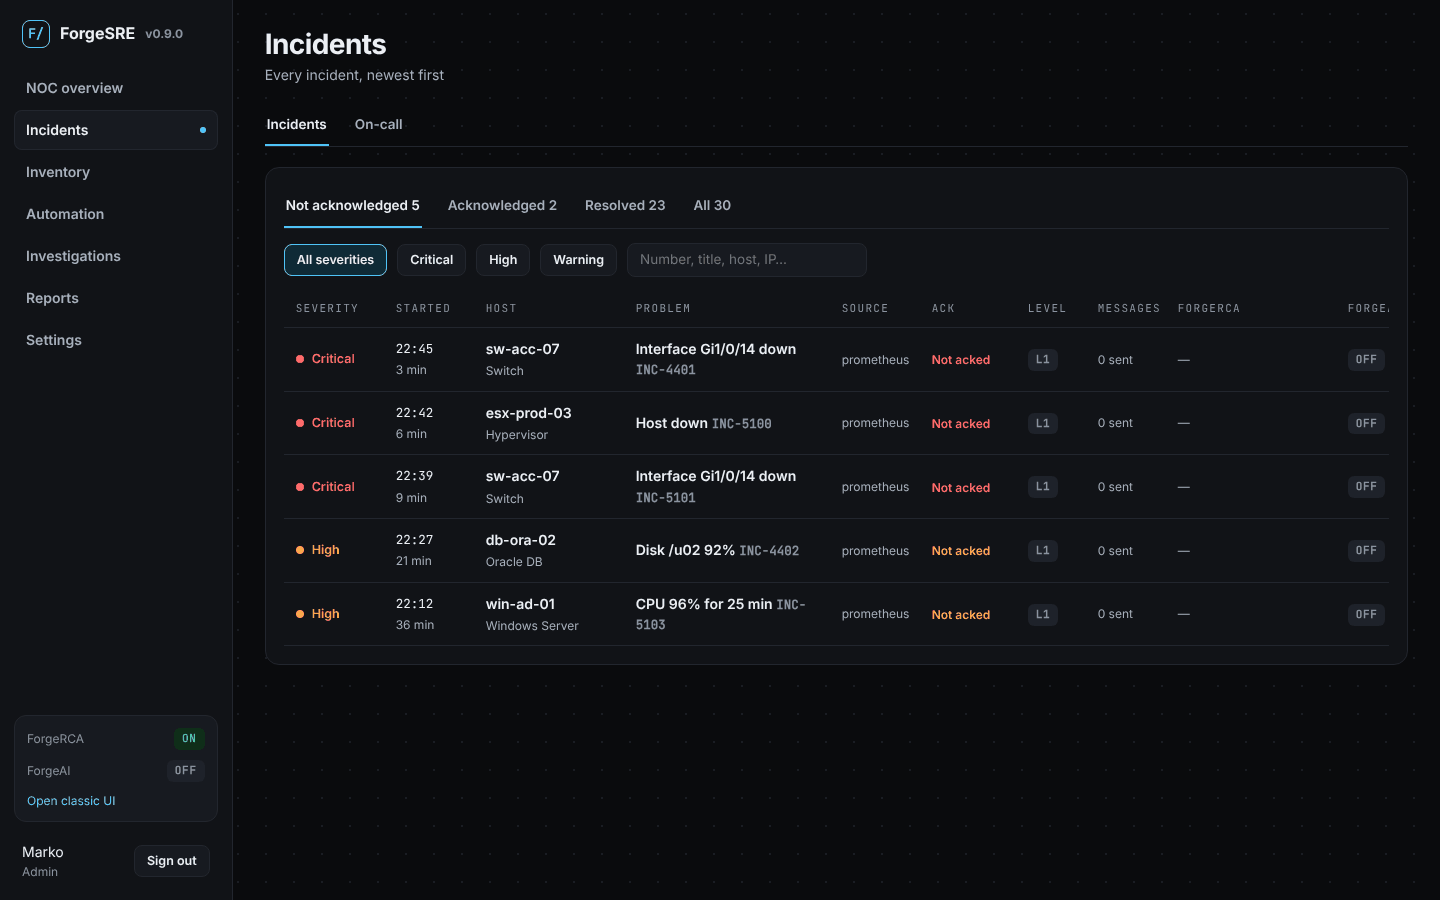
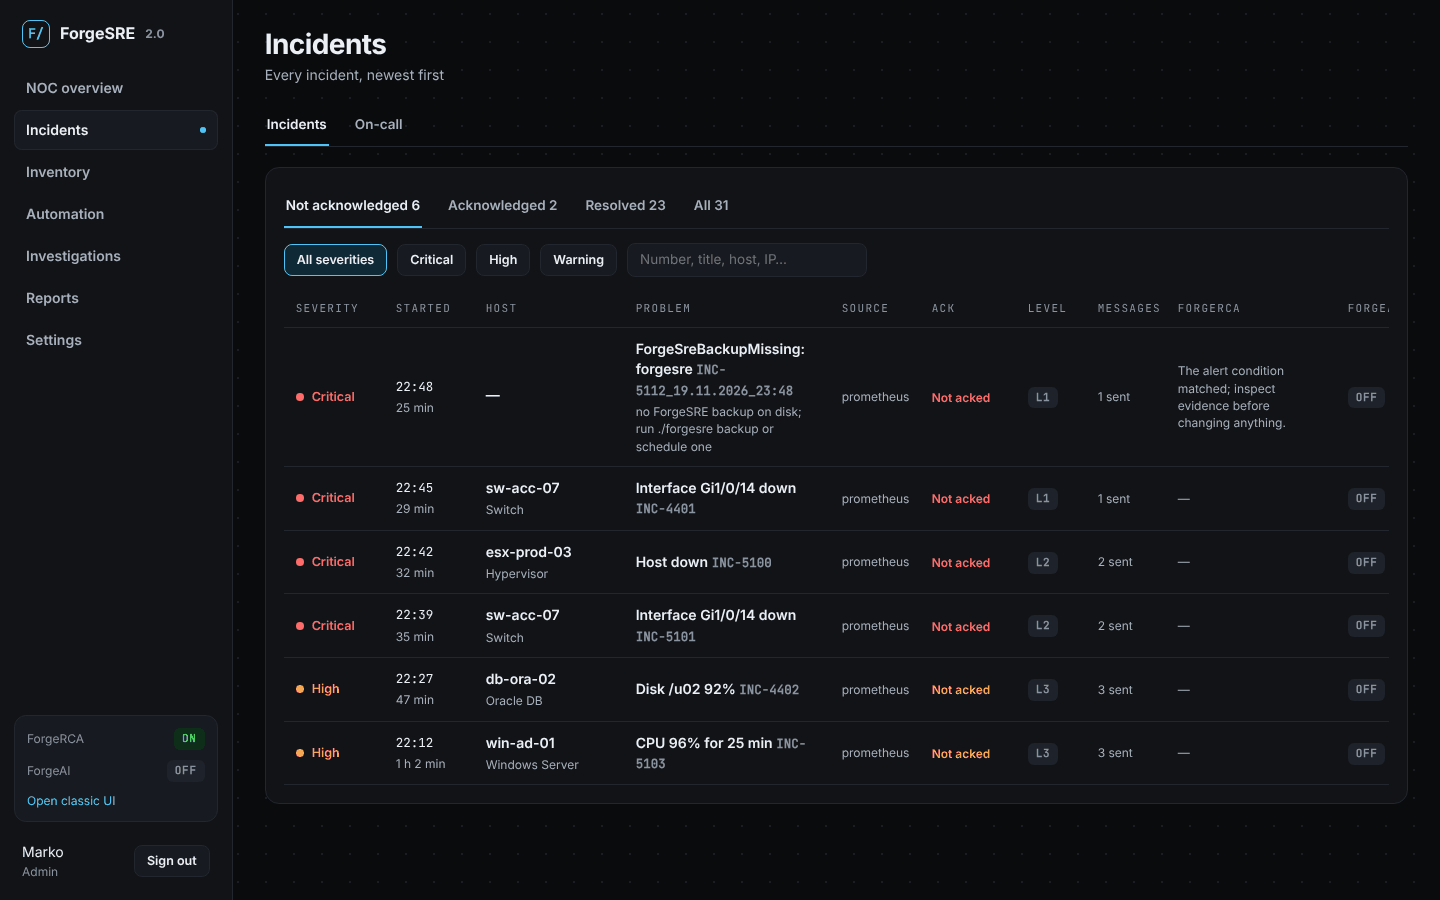
release: ForgeSRE 2.0 everywhere
One version on every surface: 2.0.0 in .env (install, update via
render-monitoring), FastAPI, ./forgesre version, the classic header (was v1.0)
and the new UI menu (shows 2.0). README, docs index, architecture and handbook
say V2.0; docs/v2.0.md lists what is new since V0.9. Screenshots refreshed.

Claude-Session: https://claude.ai/code/session_01K9hus2JZBeXGjiRoAgeJJH

diff --git a/frontend/templates/base.html b/frontend/templates/base.html
@@ -52,7 +52,7 @@
       <symbol id="nav-admin" viewBox="0 0 16 16"><circle cx="8" cy="8" r="2.1" fill="none" stroke="currentColor" stroke-width="1.5"/><path fill="none" stroke="currentColor" stroke-width="1.5" stroke-linejoin="round" d="M8 2.2v1.4M8 12.4v1.4M2.2 8h1.4M12.4 8h1.4M3.9 3.9l1 1M11.1 11.1l1 1M12.1 3.9l-1 1M4.9 11.1l-1 1"/></symbol>
       <symbol id="nav-logout" viewBox="0 0 16 16"><path fill="none" stroke="currentColor" stroke-width="1.5" stroke-linecap="round" stroke-linejoin="round" d="M7 2.5H3.5v11H7M7 8h6M10.5 5.5 13 8l-2.5 2.5"/></symbol>
     </svg>
-    <div class="brand"><span class="nav-ico" aria-hidden="true"><svg class="nav-svg"><use href="#nav-dash"></use></svg></span>ForgeSRE <span>v1.0</span></div>
+    <div class="brand"><span class="nav-ico" aria-hidden="true"><svg class="nav-svg"><use href="#nav-dash"></use></svg></span>ForgeSRE <span>v2.0</span></div>
     <a href="/classic" class="{% if request.url.path in ('/', '/classic') %}active{% endif %}" title="Dashboard"><span class="nav-ico" aria-hidden="true"><svg class="nav-svg"><use href="#nav-dash"></use></svg></span><span class="nav-label">Dashboard</span></a>
     {% if can('read_ai') %}
     <a href="/investigations" class="{% if request.url.path.startswith('/investigations') or request.url.path.startswith('/forgeai') %}active{% endif %}" title="Investigations"><span class="nav-ico" aria-hidden="true"><svg class="nav-svg"><use href="#nav-invest"></use></svg></span><span class="nav-label">Investigations</span></a>

diff --git a/web/src/components/Shell.tsx b/web/src/components/Shell.tsx
@@ -14,6 +14,11 @@ export const NAV = [
   { to: "/settings", label: "Settings" },
 ];
 
+/** "2.0.0" → "2.0": the menu shows major.minor, like the release notes. */
+export function shortVersion(v: string): string {
+  return v.split(".").slice(0, 2).join(".");
+}
+
 const ROLE_LABEL: Record<string, string> = { viewer: "Viewer", analyst: "Analyst", engineer: "Engineer", admin: "Admin" };
 
 export function Shell({ me, forgeai, children }: { me: Me | null; forgeai: string; children: ReactNode }) {
@@ -22,7 +27,7 @@ export function Shell({ me, forgeai, children }: { me: Me | null; forgeai: strin
       <nav className="nav" aria-label="Main">
         <div className="nav-brand">
           <span className="nav-logo" aria-hidden="true">F/</span>
-          ForgeSRE {me?.version ? <span className="small faint">v{me.version}</span> : null}
+          ForgeSRE {me?.version ? <span className="small faint">{shortVersion(me.version)}</span> : null}
         </div>
         <div className="nav-links">
           {NAV.map((item) => (

diff --git a/web/src/components/Shell.test.tsx b/web/src/components/Shell.test.tsx
@@ -9,15 +9,15 @@ describe("Shell", () => {
   it("shows the appliance version from /me, and nothing when it is unknown", () => {
     const { rerender } = render(
       <MemoryRouter>
-        <Shell me={{ email: "a@x", role: "admin", name: "Ana", version: "0.9.0" }} forgeai="off">x</Shell>
+        <Shell me={{ email: "a@x", role: "admin", name: "Ana", version: "2.0.0" }} forgeai="off">x</Shell>
       </MemoryRouter>,
     );
-    expect(screen.getByText("v0.9.0")).toBeTruthy();
+    expect(screen.getByText("2.0")).toBeTruthy();
     rerender(
       <MemoryRouter>
         <Shell me={{ email: "a@x", role: "admin", name: "Ana" }} forgeai="off">x</Shell>
       </MemoryRouter>,
     );
-    expect(screen.queryByText(/^v\d/)).toBeNull();
+    expect(screen.queryByText(/^\d+\.\d+$/)).toBeNull();
   });
 });

diff --git a/tests/test_v08.py b/tests/test_v08.py
@@ -110,37 +110,39 @@ def _alert(alertname: str, asset_id: str) -> dict:
 # --- version ---------------------------------------------------------------
 
 
-def test_version_is_0_9_on_product_surfaces():
+def test_version_is_2_0_on_product_surfaces():
     from app.main import app as fastapi_app
 
-    assert fastapi_app.version == "0.9.0"
+    assert fastapi_app.version == "2.0.0"
     base = (TEMPLATES / "base.html").read_text(encoding="utf-8")
-    assert "<span>v1.0</span>" in base
+    assert "<span>v2.0</span>" in base
     assert "v0.8" not in base
     assert "app.css?v=v09-70" in base
     assert "app.js?v=v09-T" in base
     for rel in ("scripts/install.sh", "scripts/render-monitoring.sh", "scripts/forgesre"):
         text = (ROOT / rel).read_text(encoding="utf-8")
-        assert "0.9.0" in text
-        assert "0.8.0" not in text
+        assert "2.0.0" in text
+        assert "0.9.0" not in text
     readme = (ROOT / "README.md").read_text(encoding="utf-8")
-    assert "Current product: V0.9" in readme
+    assert "Current product: V2.0" in readme
     assert (ROOT / "docs" / "v0.8.md").exists()
     assert (ROOT / "docs" / "v0.9.md").exists()
+    assert (ROOT / "docs" / "v2.0.md").exists()
     index = (ROOT / "docs" / "README.md").read_text(encoding="utf-8")
     assert "[V0.8](v0.8.md)" in index
     assert "[V0.9](v0.9.md)" in index
+    assert "[V2.0](v2.0.md)" in index
     env = (ROOT / ".env.example").read_text(encoding="utf-8")
-    assert "FORGESRE_VERSION=0.9.0" in env
+    assert "FORGESRE_VERSION=2.0.0" in env
     help_text = subprocess.check_output(["bash", str(ROOT / "scripts/forgesre"), "help", "version"], text=True)
-    assert "0.9.0" in help_text
+    assert "2.0.0" in help_text
 
 
-def test_dashboard_footer_shows_v09():
+def test_dashboard_footer_shows_v20():
     _db().close()
     home = _client().get("/")
     assert home.status_code == 200
-    assert "ForgeSRE <span>v1.0</span>" in home.text
+    assert "ForgeSRE <span>v2.0</span>" in home.text
 
 
 # --- appliance NET ------------------------------------------------------------

diff --git a/tests/test_continuation.py b/tests/test_continuation.py
@@ -15,16 +15,16 @@ def test_continuation_handoff_exists_and_points_at_test_and_llm():
     assert "docs/llm.md" in text
     assert "514" in text
     assert "syslog" in text.lower()
-    assert "V0.9" in text
+    assert "V2.0" in text
     assert "not shipped" in text.lower()
     assert "one worker thread" in text.lower()
     contributing = (ROOT / "CONTRIBUTING.md").read_text(encoding="utf-8")
-    assert "V0.9" in contributing
+    assert "V2.0" in contributing
     handbook = (ROOT / "docs" / "operator-handbook.md").read_text(encoding="utf-8")
     assert "memory 90%" in handbook
     assert "Prometheus → Alertmanager → Core" in handbook
     arch = (ROOT / "docs" / "architecture.md").read_text(encoding="utf-8")
-    assert "V0.9" in arch
+    assert "V2.0" in arch
     assert "host network" in arch.lower()
     assert "Alertmanager" in arch
     assert "jobs" in arch.lower()

diff --git a/tests/test_snmp.py b/tests/test_snmp.py
@@ -175,7 +175,7 @@ def test_cli_help_documents_snmp_and_assets():
     backup = subprocess.check_output(["bash", str(root / "scripts/forgesre"), "help", "backup"], text=True)
     assert "--no-secrets" in backup
     version = subprocess.check_output(["bash", str(root / "scripts/forgesre"), "help", "version"], text=True)
-    assert "0.9" in version
+    assert "2.0" in version
     assert "Interactive prompt" in overview
     assert "./f" in overview
     shell = subprocess.check_output(["bash", str(root / "scripts/forgesre"), "help", "shell"], text=True)

diff --git a/tests/test_new_ui.py b/tests/test_new_ui.py
@@ -526,7 +526,7 @@ def test_new_ui_is_home_when_built(monkeypatch, tmp_path):
 
 
 def test_me_reports_appliance_version_for_the_menu(monkeypatch):
-    monkeypatch.setenv("FORGESRE_VERSION", "0.9.0")
+    monkeypatch.setenv("FORGESRE_VERSION", "2.0.0")
     client = TestClient(create_app())
     client.post("/login", data={"email": "admin@forgesre.local", "password": "testpass"})
-    assert client.get("/api/v1/me").json()["version"] == "0.9.0"
+    assert client.get("/api/v1/me").json()["version"] == "2.0.0"

diff --git a/tests/test_n_ordered.py b/tests/test_n_ordered.py
@@ -127,7 +127,7 @@ def test_readme_does_not_claim_dashboard_doctor_or_incidents_200():
 
 def test_architecture_doc_describes_the_running_appliance():
     text = (ROOT / "docs" / "architecture.md").read_text(encoding="utf-8")
-    assert "V0.9" in text
+    assert "V2.0" in text
     assert "host network" in text.lower()
     assert "Alertmanager" in text
     handbook = (ROOT / "docs" / "operator-handbook.md").read_text(encoding="utf-8")

diff --git a/backend/app/main.py b/backend/app/main.py
@@ -275,7 +275,7 @@ def create_app() -> FastAPI:
         stop.set()
         leader.release()
 
-    app = FastAPI(title="ForgeSRE", version="0.9.0", lifespan=lifespan)
+    app = FastAPI(title="ForgeSRE", version="2.0.0", lifespan=lifespan)
     static_dir = settings.frontend_dir / "static"
     if static_dir.exists():
         app.mount("/static", StaticFiles(directory=str(static_dir)), name="static")

diff --git a/docs/operator-handbook.md b/docs/operator-handbook.md
@@ -11,7 +11,7 @@ Local LLM (ForgeAI): [`llm.md`](llm.md).
 Connecting Zabbix (optional, read-only): [`zabbix.md`](zabbix.md).  
 Connecting GLPI (optional, read-only inventory): [`glpi.md`](glpi.md).
 
-Version notes (`v0.1.md` … `v0.9.md`) explain *what shipped*. This document explains *how you run the product*. Commands live in [`cli.md`](cli.md). Learning order: [`docs/README.md`](README.md).
+Version notes (`v0.1.md` … `v2.0.md`) explain *what shipped*. This document explains *how you run the product*. Commands live in [`cli.md`](cli.md). Learning order: [`docs/README.md`](README.md).
 
 Code: https://github.com/nsimic2022/forgesre (`main`). UI: `http://<VM-IP>:8080`.
 
@@ -107,7 +107,7 @@ Three places. Do not mix them.
 | **`config/forgesre.yml`** | Discovery CIDRs, NetBox URL, AI/LLM, SMTP on/off, Loki/Grafana | File on the VM |
 | **Repo / generated files** | Prometheus *alert expressions*, scrape jobs, Alertmanager webhook | `monitoring/alerts.yml`, `.env`, `secrets/secrets.env` |
 
-YAML under `config/examples/` is the **future spec** (Playrule/Playbook/Escalation as files). V0.9 does **not** import those files. Live playrules and playbooks are created in the UI (or API) and stored in Postgres.
+YAML under `config/examples/` is the **future spec** (Playrule/Playbook/Escalation as files). V2.0 does **not** import those files. Live playrules and playbooks are created in the UI (or API) and stored in Postgres.
 
 After editing `config/forgesre.yml`, recreate Core:
 
@@ -868,7 +868,7 @@ Root wrappers `./doctor.sh`, `./test.sh`, `./backup.sh`, `./update.sh`, `./insta
 
 ## 17. What this version monitors
 
-V0.9 on one Ubuntu VM, Docker Compose, host networking:
+V2.0 on one Ubuntu VM, Docker Compose, host networking:
 
 - **Linux** — `node_exporter` `:9100`: exporter down, disk **90%**, **memory 90%**, CPU 95% (`monitoring/alerts.yml`). Extra rules go in `alerts.local.yml`.
 - **Windows** — `windows_exporter` `:9182`: exporter down, volume **90%**, **memory 90%**, CPU 90%.
@@ -941,7 +941,7 @@ Optional `inventory.glpi.auto_sync: true` imports with the 6 h discovery loop. T
 
 ## 20. DC-NOC shortcuts
 
-Eight small tools for a data-center NOC. Same V0.9 appliance: one Core, Postgres jobs, Grafana from System Health, NetBox, Zabbix and GLPI as read sources.
+Eight small tools for a data-center NOC. Same V2.0 appliance: one Core, Postgres jobs, Grafana from System Health, NetBox, Zabbix and GLPI as read sources.
 
 1. **Maintenance.** Edit → Support → Maintenance from / until (appliance timezone). Both empty = not in maintenance. A new alert during the window is still an incident with status **MAINT** (visible, escalation mail does not start). After until, the next firing can email. This is not Standard-alarm mute: mute drops the alert; maintenance keeps a quiet incident.
 2. **Parent.** Edit → Identity → Parent (one upstream device, for example the switch). While that parent has an active down or unreachable incident, a new host-down or interface-down alert on the child is status **SUPPRESSED** and linked to the parent. The parent still pages. CPU, disk, and memory are not suppressed. After the parent incident clears, the next firing can email.

diff --git a/docs/continuation.md b/docs/continuation.md
@@ -2,7 +2,7 @@
 
 This file is a **session handoff for the next coding agent or contributor**. It is not an operator manual. Operators start at [install and config](install-config.md) and the [operator handbook](operator-handbook.md).
 
-Product on `main`: **V0.9**. Repository: https://github.com/nsimic2022/forgesre.
+Product on `main`: **V2.0** (`2.0.0`). Repository: https://github.com/nsimic2022/forgesre.
 
 **14 October 2026 (current).** Branch `cursor/dash-export-csv-05f8` (PR against `main`): Dashboard cube clock removed; Host metrics title above the cube; incident column **Incident**; Export **TXT + CSV UTF-8** on every list; On call links to `/escalation#oncall` plus **I'm on duty now** (later start wins; taking duty closes the previous rest-of-day window); Dashboard **ForgeAI** digest (SQL facts, optional LLM sentences, Report / Send report). Pytest **829 passed, 2 skipped** twice. Docs updated: handbook screen map §4 / §5 / §13 / §14, [llm.md](llm.md), [v0.9.md](v0.9.md), [architecture.md](architecture.md), [docs/README.md](README.md), root README. Never `./install.sh` on a live box. Replies to N in Serbian; OSS docs English.
 
@@ -61,7 +61,7 @@ git pull origin main && ./forgesre update
 
 SHA: **`872bd41`**. Open **Discovery**. Review suggested `/24`, **Confirm & scan**, wait for the background job (`./forgesre jobs`). **Sync NetBox** sits beside Scan now (read-only). Approve / Ignore as before; manual Assets stay SoT.
 
-`./forgesre test` is the appliance report. `./forgesre ping` is ICMP + exporter. `./forgesre verify` is the live inventory path. Those three are different. Optional LLM: [docs/llm.md](llm.md). Jobs: **one worker thread** (no Celery). Loki: device syslog on UDP/TCP 514, labeled by hostname and sender IP; demo Core logs stay `forge-demo-01`. [architecture.md](architecture.md) describes the **V0.9 appliance** (Compose, one Core worker, alarm path). Celery and a Go/Kubernetes rewrite are **not shipped**.
+`./forgesre test` is the appliance report. `./forgesre ping` is ICMP + exporter. `./forgesre verify` is the live inventory path. Those three are different. Optional LLM: [docs/llm.md](llm.md). Jobs: **one worker thread** (no Celery). Loki: device syslog on UDP/TCP 514, labeled by hostname and sender IP; demo Core logs stay `forge-demo-01`. [architecture.md](architecture.md) describes the **V2.0 appliance** (Compose, one Core worker, alarm path). Celery and a Go/Kubernetes rewrite are **not shipped**.
 
 NetBox: keep the **full v2 token** (shown once at create, not the 12-character key) in `NETBOX_API_TOKEN`. Recreate **core** only if secrets changed. Never print the token.
 

diff --git a/docs/v2.0.md b/docs/v2.0.md
@@ -1,0 +1,36 @@
+# ForgeSRE V2.0 — current appliance
+
+**Status:** current product (`2.0.0`)
+**Before:** [V0.9](v0.9.md) and older release notes. **How you use it:** the [guide](README.md#guide).
+
+V2.0 is the same single-VM Compose appliance, with a new operator interface and the
+features that make incidents shorter. Updating from V0.9 is the usual `git pull` and
+`./forgesre update`; nothing has to be reinstalled.
+
+## What is new
+
+1. **New UI is home.** `/` opens the new interface (`/app`): NOC overview, Incidents,
+   Inventory, Automation, Investigations, Reports and Settings, in a dark "Signal" style.
+   Operators can do the daily work and the editing (assets, rules, filters, playbooks,
+   escalation, on-call, maintenance) without leaving it.
+2. **Wall screen (TV mode)** with the 12-hour **incident clock**.
+3. **What changed before**: deploys, config pushes and tickets posted by CI/CD or GLPI,
+   plus ForgeSRE's own audit log, shown on each incident.
+4. **Dependency map** from LibreNMS LLDP/CDP, with parent-down suppression.
+5. **Acknowledge from mail** with a scanner-safe one-click page.
+6. **Postmortem draft** in Markdown, built only from recorded facts.
+7. **Appliance checks**: TLS certificate expiry, backup age, heartbeats (`./forgesre checks`).
+8. **SLOs and error budgets** (`./forgesre slo`).
+9. **Chat notifications**: Slack, Microsoft Teams, Discord.
+10. **Kubernetes, OpenShift, k3s** read-only cluster reader ([kubernetes.md](kubernetes.md)).
+11. **Read-only MCP server** for AI clients, off by default ([mcp.md](mcp.md)).
+12. **Documentation**: a six-chapter guide with screenshots.
+
+## Existing VM
+
+```bash
+git pull origin main
+./forgesre update
+./forgesre doctor
+./forgesre version     # 2.0.0
+```
